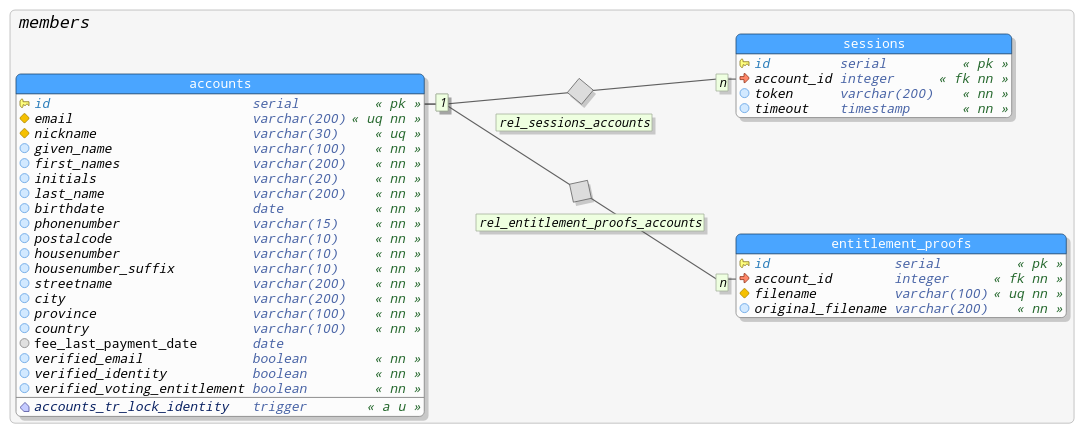
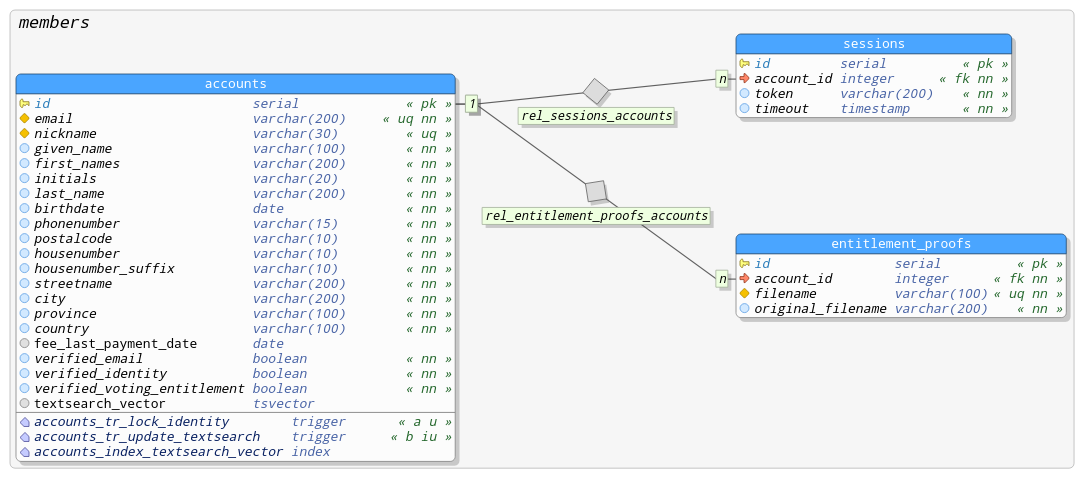
opstelten,rutte,db: Add member search feature db: add reset-dh.sh script
Furthermore: some minor typo's and fixes.

Changed region(s): [[0.0, 0.0598, 1.0, 0.9862], [0.0, 0.0299, 0.0912, 0.0897]]

diff --git a/opstelten/app/members/member.service.ts b/opstelten/app/members/member.service.ts
@@ -7,6 +7,7 @@ import { Api } from '../api/api.service';
 import { CreateResponse } from '../api/create-response';
 import { UpdateResponse } from '../api/update-response';
 
+import { MemberList } from './member-list';
 import { Member } from './member';
 
 @Injectable()
@@ -14,35 +15,10 @@ export class MemberService {
 
     constructor(private api: Api) { }
 
-    // public getMembers(searchQuery: string): Observable<Member[]> {
-    //     console.log("getMembers", searchQuery);
-    //     return this.api.get(Member, 'members')
-    //         .map((res: Response) => {
-    //             let members = res.json().members.filter((member: Member) => {
-    //                 if (searchQuery === `` || searchQuery == null) {
-    //                     return true;
-    //                 }
-    // 
-    //                 let memberNameMatches: boolean = true;
-    //                 for (var searchQueryPart of searchQuery.split(` `)) {
-    //                     if (member.nameParts().indexOf(searchQueryPart) == -1) {
-    //                         memberNameMatches = false;
-    //                         break;
-    //                     }
-    //                 }
-    //                 if (memberNameMatches) {
-    //                     return true;
-    //                 }
-    // 
-    //                 if (member.postalcode === searchQuery) {
-    //                     return true;
-    //                 }
-    //             });
-    //             console.dir(members);
-    //             return members;
-    //         })
-    //         .catch(this.handleError)
-    // }
+    public getMemberList(searchQuery: string): Observable<MemberList> {
+        console.log("getMembers", searchQuery);
+        return this.api.get(MemberList, 'member-list?searchQuery=' + encodeURIComponent(searchQuery)).catch(this.handleError);
+    }
 
     public postMember(member: Member): Promise<CreateResponse> {
         return this.api.post('member', JSON.stringify(member)).toPromise();
@@ -58,11 +34,8 @@ export class MemberService {
     }
 
     private handleError(error: any) {
-        // In a real world app, we might use a remote logging infrastructure
-        // We'd also dig deeper into the error to get a better message
-        let errMsg = (error.message) ? error.message :
-            error.status ? `${error.status} - ${error.statusText}` : 'Server error';
-        console.error(errMsg); // log to console instead
+        let errMsg = (error.message) ? error.message : error.status ? `${error.status} - ${error.statusText}` : 'Server error';
+        console.error(errMsg);
         return Observable.throw(errMsg);
     }
 }

diff --git a/opstelten/app/app.component.ts b/opstelten/app/app.component.ts
@@ -6,11 +6,19 @@ import { Component } from '@angular/core';
         <simple-notifications [options]="notificationOptions"></simple-notifications>
         <template ngbModalContainer></template>
 
-        <nav>
-            <a routerLink="/member/new" routerLinkActive="active">New member</a>
-            <a routerLink="/member/1" routerLinkActive="active">Member 1</a>
-            <a routerLink="/members" routerLinkActive="active">Members (non functional)</a>
+        <nav class="navbar navbar-toggleable-md navbar-light bg-faded">
+            <button class="navbar-toggler navbar-toggler-right" type="button" data-toggle="collapse" data-target="#navbarNavAltMarkup" aria-controls="navbarNavAltMarkup" aria-expanded="false" aria-label="Toggle navigation">
+                <span class="navbar-toggler-icon"></span>
+            </button>
+            <a class="navbar-brand" href="#">GeenPeil Backoffice</a>
+            <div class="collapse navbar-collapse" id="navbarNavAltMarkup">
+                <div class="navbar-nav">
+                    <a class="nav-item nav-link" routerLinkActive="active" routerLink="/members" >Ledenlijst</a>
+                    <a class="nav-item nav-link" routerLinkActive="active" routerLink="/member/new" >Nieuw lid</a>
+                </div>
+            </div>
         </nav>
+        
         <router-outlet></router-outlet>`,
 })
 export class AppComponent {

diff --git a/opstelten/app/members/member-list.component.html b/opstelten/app/members/member-list.component.html
@@ -1,0 +1,35 @@
+
+<div class="container" >
+	<div class="row">&nbsp;</div>
+	<div class="form-group row">
+		<label for="searchQuery" class="col-1 col-form-label">Search:</label>
+		<div class="col-8">
+			<input class="form-control" id="searchQuery" [(ngModel)]="searchQuery" (keyup)="search()" type="text" placeholder="postcode OF email OF @nickname OF random zoekwoorden">
+		</div>
+		<div class="col-3 actions" >
+			<a class="btn btn-success" routerLink="/member/new" >Create member</a>
+		</div>
+	</div>
+	<div class="row">
+		<div class="col-12" >
+			<table class="table table-striped" >
+				<thead class="thead-default">
+					<tr>
+						<th>Lidnr</th>
+						<th>Roepnaam</th>
+						<th>Naam</th>
+						<th>Nickname</th>
+					</tr>
+				</thead>
+				<tbody>
+					<tr *ngFor="let member of (memberList | async)?.members" >
+						<td><a routerLink="/member/{{member.id}}">{{member.id}}</a></td>
+						<td>{{member.givenName}}</td>
+						<td><a routerLink="/member/{{member.id}}">{{member.officialName()}}</a></td>
+						<td>{{member.nickname}}</td>
+					</tr>
+				</tbody>
+			</table>
+		</div>
+	</div>
+</div>

diff --git a/opstelten/app/members/member-list.component.ts b/opstelten/app/members/member-list.component.ts
@@ -1,0 +1,31 @@
+import { Component } from '@angular/core';
+
+import { BehaviorSubject } from 'rxjs/BehaviorSubject';
+import { Observable } from 'rxjs/Observable';
+
+import { MemberList } from './member-list';
+import { Member } from './member';
+import { MemberService } from './member.service';
+
+@Component({
+    templateUrl: 'app/members/member-list.component.html',
+    styles: [`
+		.actions {
+			border-left: 1px dashed #333;
+			text-align: right;
+		}`]
+})
+export class MemberListComponent {
+
+    constructor(private memberService: MemberService) { }
+
+    searchQuery: string;
+    private searchQueryFilterStream = new BehaviorSubject<string>(``);
+    search() { this.searchQueryFilterStream.next(this.searchQuery); }
+
+    memberList: Observable<MemberList> = this.searchQueryFilterStream
+        .filter((val: string) => val != ``)
+        .debounceTime(400)
+        .distinctUntilChanged()
+        .switchMap((searchQuery: string) => this.memberService.getMemberList(searchQuery));
+}

diff --git a/opstelten/app/members/member.component.html b/opstelten/app/members/member.component.html
@@ -137,7 +137,7 @@
 						<div class="col-3">Identiteit</div>
 						<div class="col-9">
 							<span class="badge badge-success" *ngIf="member.verifiedIdentity">Geverifieerd</span>
-							<span class="badge badge-warning" *ngIf="!member.verifiedIdentity">Niet geverefieerd</span>
+							<span class="badge badge-warning" *ngIf="!member.verifiedIdentity">Niet geverifieerd</span>
 						</div>
 					</div>
 					<div class="row" >
@@ -151,7 +151,7 @@
 				<div class="form-group row">
 					<div class="col-12" >
 						<button class="btn btn-success" type="submit"
-							[disabled]="!memberForm.valid || !memberForm.dirty" >Save</button>
+							[disabled]="!memberForm.valid || !memberForm.dirty" >Opslaan</button>
 					</div>
 				</div>
 			</form>

diff --git a/opstelten/app/members/members.module.ts b/opstelten/app/members/members.module.ts
@@ -9,6 +9,7 @@ import { ApiModule } from '../api/api.module';
 import { MembersRoutingModule } from './members-routing.module';
 
 import { MemberService } from './member.service';
+import { MemberListComponent } from './member-list.component';
 import { MemberComponent } from './member.component';
 
 @NgModule({
@@ -23,6 +24,9 @@ import { MemberComponent } from './member.component';
     providers: [
         MemberService
     ],
-    declarations: [MemberComponent]
+    declarations: [
+        MemberListComponent,
+        MemberComponent
+    ]
 })
 export class MembersModule { }

diff --git a/opstelten/app/members/members-routing.module.ts b/opstelten/app/members/members-routing.module.ts
@@ -1,9 +1,11 @@
 import { NgModule } from '@angular/core';
 import { RouterModule, Routes } from '@angular/router';
 
+import { MemberListComponent } from './member-list.component';
 import { MemberComponent } from './member.component';
 
 const membersRoutes: Routes = [
+    { path: 'members', component: MemberListComponent },
     { path: 'member/:id', component: MemberComponent }
 ];
 

diff --git a/opstelten/app/rxjs-operators.ts b/opstelten/app/rxjs-operators.ts
@@ -8,6 +8,7 @@ import 'rxjs/add/observable/throw';
 
 // Operators
 import 'rxjs/add/operator/catch';
+import 'rxjs/add/operator/filter';
 import 'rxjs/add/operator/debounceTime';
 import 'rxjs/add/operator/distinctUntilChanged';
 import 'rxjs/add/operator/map';

diff --git a/opstelten/app/members/member-list.ts b/opstelten/app/members/member-list.ts
@@ -1,0 +1,8 @@
+import { JsonObject, JsonMember } from 'typedjson-npm';
+
+import { Member } from './member';
+
+@JsonObject()
+export class MemberList {
+    @JsonMember({ elements: Member }) members: Member[];
+}

diff --git a/rutte/bapi/member-list.go b/rutte/bapi/member-list.go
@@ -1,0 +1,123 @@
+package bapi
+
+import (
+	"net/http"
+	"regexp"
+	"strconv"
+
+	"github.com/jmoiron/sqlx"
+	"github.com/pressly/chi/middleware"
+	"github.com/pressly/chi/render"
+)
+
+// getMember retrieves the member details for given account ID
+func (a *API) getMemberList() http.HandlerFunc {
+	log := a.log.WithField("handler", "getMemberList")
+	log.Infoln("setup")
+
+	regexpValidatePostalcode := regexp.MustCompile(`^[0-9]{4} ?[a-zA-Z]{2}$`)
+
+	const queryStart = `
+SELECT
+	accounts.id,
+	accounts.given_name,
+	accounts.nickname,
+	accounts.initials,
+	accounts.last_name
+FROM members.accounts
+`
+
+	const queryEnd = `
+LIMIT 100
+`
+
+	stmtMemberListByID, err := a.db.Preparex(queryStart + `WHERE accounts.id = CAST($1 AS integer)` + queryEnd)
+	if err != nil {
+		log.WithError(err).Fatal("error preparing statement")
+	}
+
+	stmtMemberListByNickname, err := a.db.Preparex(queryStart + `WHERE accounts.nickname = $1` + queryEnd)
+	if err != nil {
+		log.WithError(err).Fatal("error preparing statement")
+	}
+
+	stmtMemberListByEmail, err := a.db.Preparex(queryStart + `WHERE accounts.email = $1` + queryEnd)
+	if err != nil {
+		log.WithError(err).Fatal("error preparing statement")
+	}
+
+	stmtMemberListByPostalcode, err := a.db.Preparex(queryStart + `WHERE accounts.postalcode = $1 ORDER BY housenumber` + queryEnd)
+	if err != nil {
+		log.WithError(err).Fatal("error preparing statement")
+	}
+
+	stmtMemberListByLastName, err := a.db.Preparex(queryStart + `WHERE accounts.textsearch_vector @@ to_tsquery('english', $1)` + queryEnd)
+	if err != nil {
+		log.WithError(err).Fatal("error preparing statement")
+	}
+
+	type OutMember struct {
+		ID        uint64  `json:"id"`
+		GivenName string  `json:"givenName"`
+		Nickname  *string `json:"nickname"`
+		Initials  string  `json:"initials"`
+		LastName  string  `json:"lastName"`
+	}
+
+	type OutMemberList struct {
+		Members []OutMember `json:"members"`
+	}
+
+	return func(w http.ResponseWriter, r *http.Request) {
+		log := log.WithField("requestID", middleware.GetReqID(r.Context()))
+
+		searchQuery := r.FormValue(`searchQuery`)
+		if len(searchQuery) == 0 {
+			http.Error(w, "empty searchQuery", http.StatusBadRequest)
+			log.Warn("empty searchQuery")
+			return
+		}
+
+		var queryStatement *sqlx.Stmt
+		if searchQuery[0] == '@' {
+			// search by nickname
+			queryStatement = stmtMemberListByNickname
+		} else if _, err := strconv.ParseUint(searchQuery, 10, 64); err == nil {
+			queryStatement = stmtMemberListByID
+		} else if regexpValidateEmailAddress.MatchString(searchQuery) {
+			queryStatement = stmtMemberListByEmail
+		} else if regexpValidatePostalcode.MatchString(searchQuery) {
+			if len(searchQuery) == 7 && searchQuery[4] == ' ' {
+				searchQuery = searchQuery[0:3] + searchQuery[5:6]
+			}
+			queryStatement = stmtMemberListByPostalcode
+		} else {
+			queryStatement = stmtMemberListByLastName
+		}
+
+		out := &OutMemberList{}
+		res, err := queryStatement.Queryx(searchQuery)
+		if err != nil {
+			log.WithError(err).Error("error scanning row into struct")
+			http.Error(w, "server error", http.StatusInternalServerError)
+			return
+		}
+		for res.Next() {
+			var member OutMember
+			err := res.StructScan(&member)
+			if err != nil {
+				log.WithError(err).Error("error scanning member")
+				http.Error(w, "server error", http.StatusInternalServerError)
+				return
+			}
+			out.Members = append(out.Members, member)
+		}
+		if res.Err() != nil {
+			log.WithError(res.Err()).Error("error in query result")
+			http.Error(w, "server error", http.StatusInternalServerError)
+			return
+		}
+
+		render.JSON(w, r, out)
+	}
+}

diff --git a/rutte/bapi/api.go b/rutte/bapi/api.go
@@ -34,6 +34,7 @@ func (a *API) AttachChiRouter(r chi.Router) {
 	r.Post("/member", a.postMember())
 	r.Get("/member/:id", a.getMember())
 	r.Put("/member/:id", a.putMember())
+	r.Get("/member-list", a.getMemberList())
 }
 
 // getRoot handles get requests to root (show api version?)
